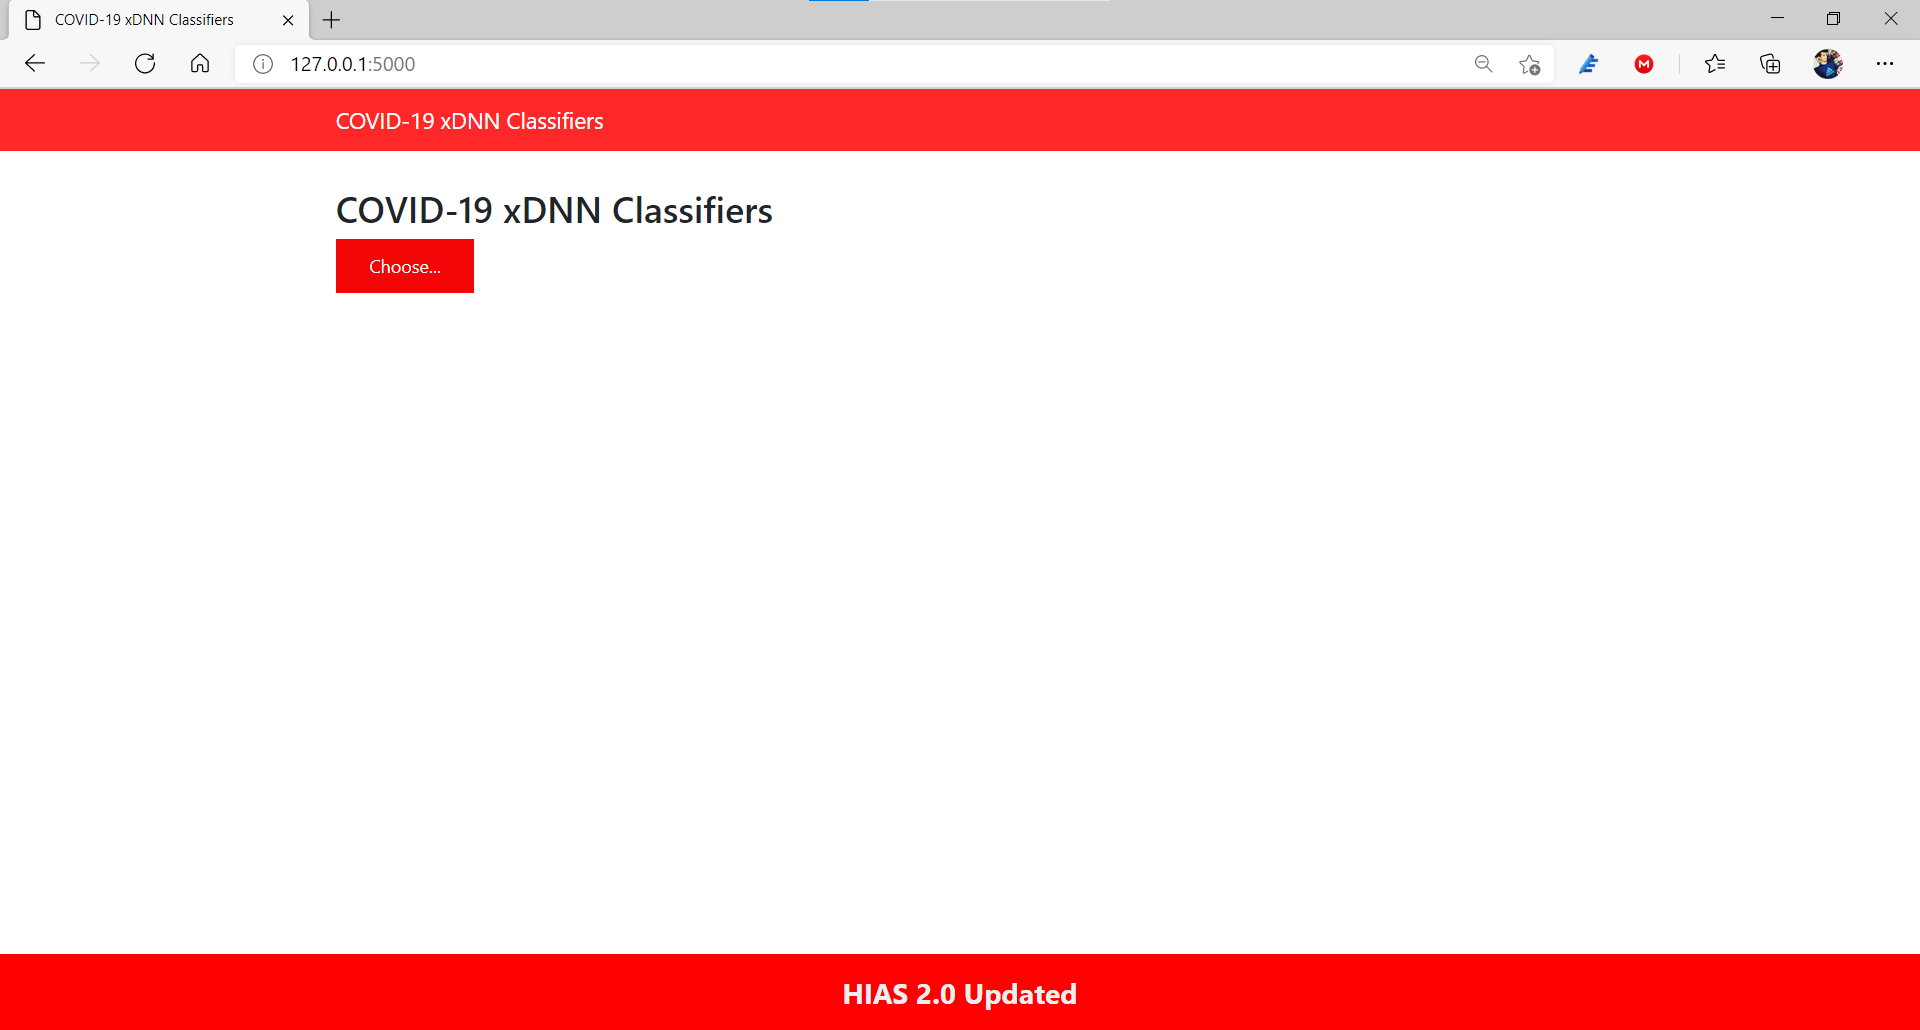
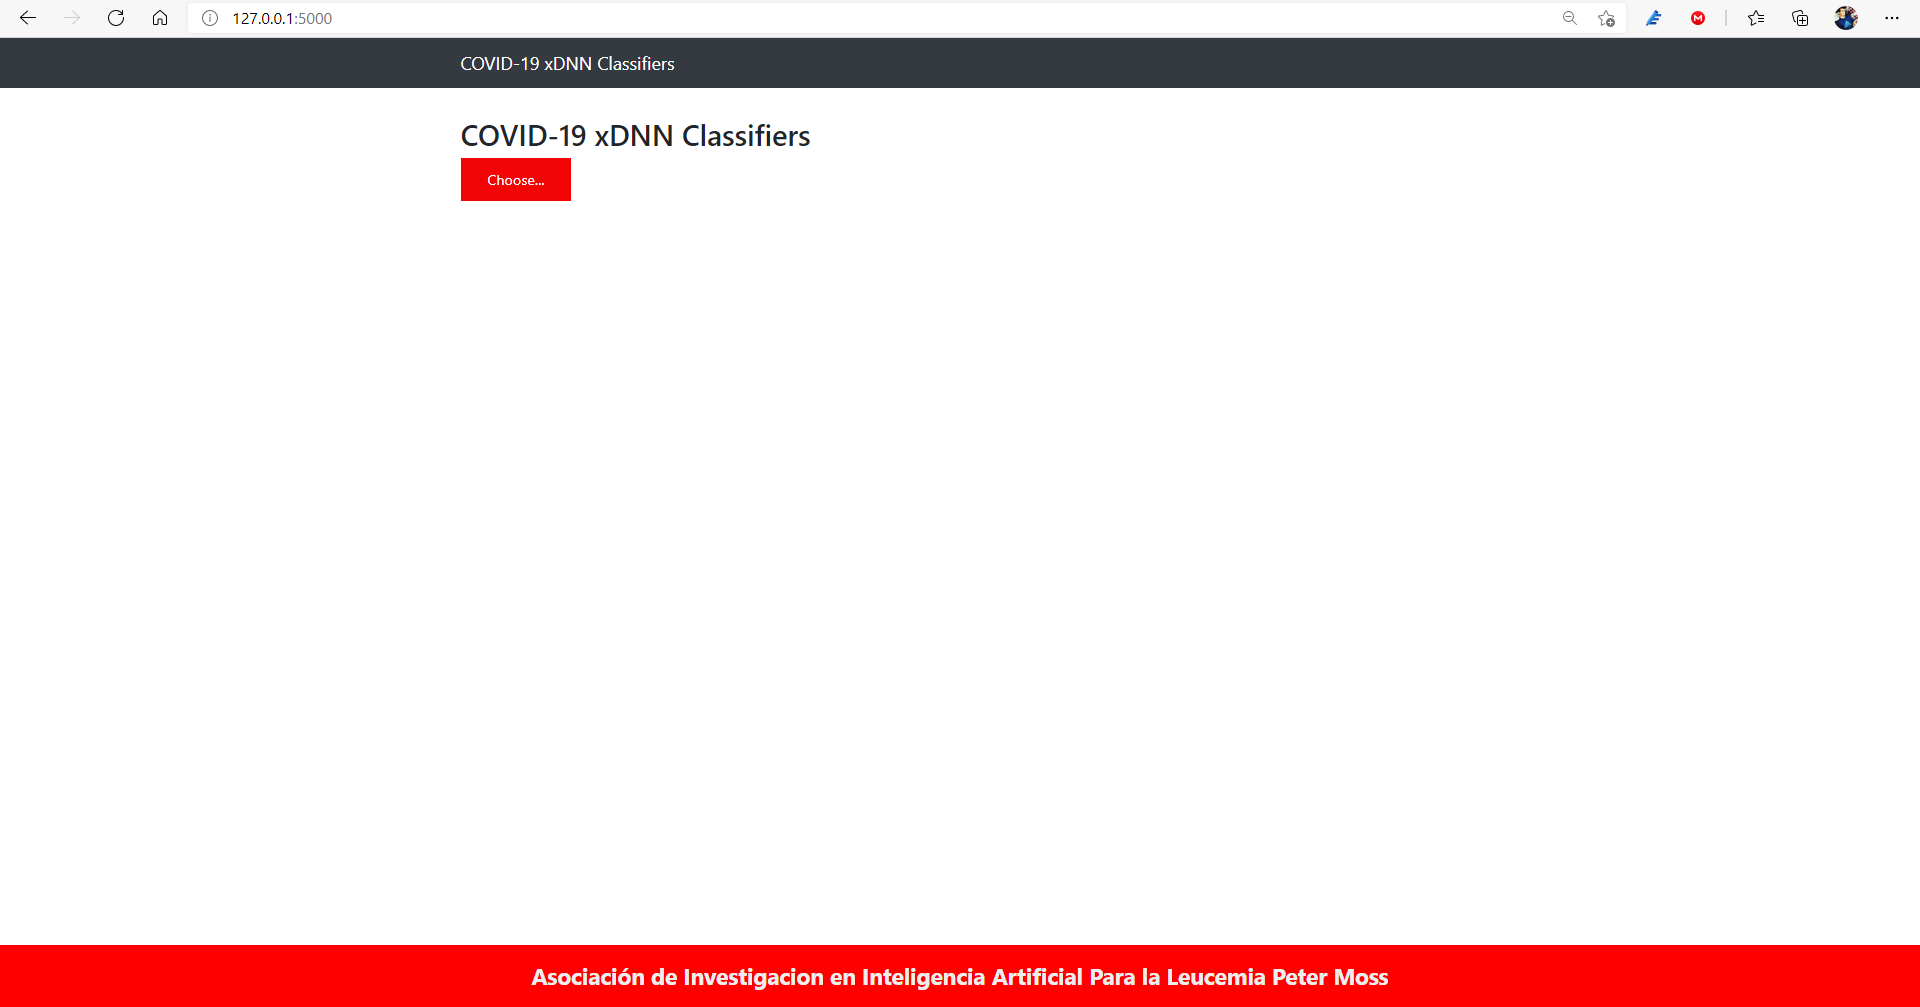
update file

Changed region(s): [[0.0, 0.0, 1.0, 0.3078], [0.0, 0.9235, 1.0, 0.9851]]

diff --git a/Projects/Python/1/templates/base.html b/Projects/Python/1/templates/base.html
@@ -30,7 +30,7 @@
 </footer>
 
 <div class="footer">
-  <p><Footer>ASOCIACIÓN DE INVESTIGACION EN INTELIGENCIA ARTIFICIAL PARA LA LEUCEMIA PETER MOSS</Footer></p>
+  <p><Footer>Asociación de Investigacion en Inteligencia Artificial Para la Leucemia Peter Moss</Footer></p>
 </div>
 
 </html>

diff --git a/Projects/Python/1/main.py b/Projects/Python/1/main.py
@@ -130,32 +130,37 @@ print("Class Confusion Matrix: ",matrix)
 
 per_matrix = matrix.astype('float') / matrix.sum(axis=1)[:, np.newaxis]
 print("Normalized Confusion Matrix: ",per_matrix)
-# Plot the graphs 
 
-# Pie chart, where the slices will be ordered and plotted counter-clockwise:
-labels = 'COVID', 'Non-COVID'
-inaccurate = 1 - accuracy 
+#Plot the graphs 
+ #=============================================================================
+ # Pie chart, where the slices will be ordered and plotted counter-clockwise:
+labels = ['COVID', 'Non-COVID']
+inaccurate = (1 - accuracy)
 sizes = [accuracy, inaccurate]
 explode = (0, 0.1)  # only "explode" the 2nd slice (i.e. 'Hogs')
-
+ 
 fig1, ax1 = plt.subplots()
 ax1.pie(sizes, explode=explode, labels=labels, autopct='%1.1f%%',
-        shadow=True, startangle=90)
+         shadow=True, startangle=90)
 ax1.axis('equal')  # Equal aspect ratio ensures that pie is drawn as a circle.
-plt.show()
-
-# Recall, Precision and F1
-import matplotlib.pyplot as plt
-fig2 = plt.figure()
-ax = fig2.add_axes([0,0,1,1])
+ax1.set_title('Accuracy Chart');
+fig1.savefig('./Media/Images/Accuracy_chart.png')
+ 
+# Recall, Precision and F1 
+fig2, ax2 = plt.subplots()
+ax2 = fig2.add_axes([0,0,1,1])
 name = ['precision', 'Recall', 'F1 score']
 values = [precision,recall,f1]
-ax.bar(name,values)
-plt.title('Precision - Recall - F1')
-plt.show()
-
-# Confusion Matrix 
+ax2.bar(name,values)
+ax2.set_title('Precision - Recall - F1')
+plt.savefig('./Media/Images/recall.png', bbox_inches='tight')
+ 
 fig3 = plt.figure()
-skplt.metrics.plot_confusion_matrix(y_test_labels , Output2['EstLabs'], normalize=True)
-plt.title('Confusion Matrix')
-plt.show()
+con_mat = skplt.metrics.plot_confusion_matrix(
+    y_test_labels, 
+    Output2['EstLabs'],
+    figsize=(8,8))
+plt.savefig('./Media/Images/Confusion_matrix.png')
+plt.show(con_mat)
+
+# =============================================================================

diff --git a/Projects/Python/1/classifier.py b/Projects/Python/1/classifier.py
@@ -20,6 +20,7 @@ from tensorflow.keras.models import Model
 import numpy as np
 import time
 import os
+import glob
 
 import pandas as pd
 import logging
@@ -98,11 +99,12 @@ intermediate_layer_model = keras.Model(inputs=model.input,outputs=model.get_laye
 
 print ("###################### Results ##########################")
 
-input_dir = ('./Model/Sample/')
+input_dir = ('./Model/Sample/*.png')
 
 count = 0
-for img_name in os.listdir(input_dir):
-    input_image = os.path.join(input_dir, img_name)
+
+for img_name in glob.glob(input_dir):
+    input_image = os.path.join(img_name)
     count = count + 1
     img = image.load_img(input_image, target_size=(224, 224), color_mode='rgb')
     

diff --git a/Projects/Python/1/Classes/Feature_Extraction_VGG19.py b/Projects/Python/1/Classes/Feature_Extraction_VGG19.py
@@ -21,6 +21,11 @@ from tensorflow.keras.models import Model
 import numpy as np
 import os
 
+def listdir_nohidden(path):
+    for f in os.listdir(path):
+        if not f.startswith('.'):
+            yield f
+
 #Load VGG-16 model
 model = VGG19(weights='imagenet', include_top= True )
 layer_name = 'fc2'
@@ -31,7 +36,9 @@ intermediate_layer_model.summary()
 
 #Load the data directory  where the images are stored
 data_dir = './Model/Data/'
-contents = os.listdir(data_dir)
+pro_data = listdir_nohidden(data_dir)
+contents = pro_data
+
 classes = [each for each in contents if os.path.isdir(data_dir + each)]
 #Each folder becomes a different class
 

diff --git a/Projects/Python/1/app.py b/Projects/Python/1/app.py
@@ -56,7 +56,6 @@ app.secret_key = ('enter secret key')
 global image 
 global model
 global intermediate_layer_model
-
     
 X_train_file_path = r'./Model/Features/data_df_X_train_lite.csv'
 y_train_file_path = r'./Model/Features/data_df_y_train_lite.csv'
@@ -80,7 +79,6 @@ Input1['Labels'] = y_train_labels
         
 Mode1 = 'Learning'
 Output1 = xDNN(Input1, Mode1)
-
 
 def model_predict(img_path, model):
     img = image.load_img(img_path, target_size=(224, 224))
@@ -171,6 +169,6 @@ def upload():
     
 
 if __name__ == '__main__':
-      app.run(debug=True)
+      app.run(host='127.0.0.1', debug=True)
       print()
       

diff --git a/Projects/Python/1/README.md b/Projects/Python/1/README.md
@@ -226,8 +226,9 @@ Confusion_Matrix =
 
    242     7
     18   222
-```
 
+The figures will popup on screen with the each results outcome and saved in the [Image](./Media/Images/) folder.
+```
 ![Accuracy](../1/Media/Images/accuracy.png)
 
 _Fig 1. Accuracy_
